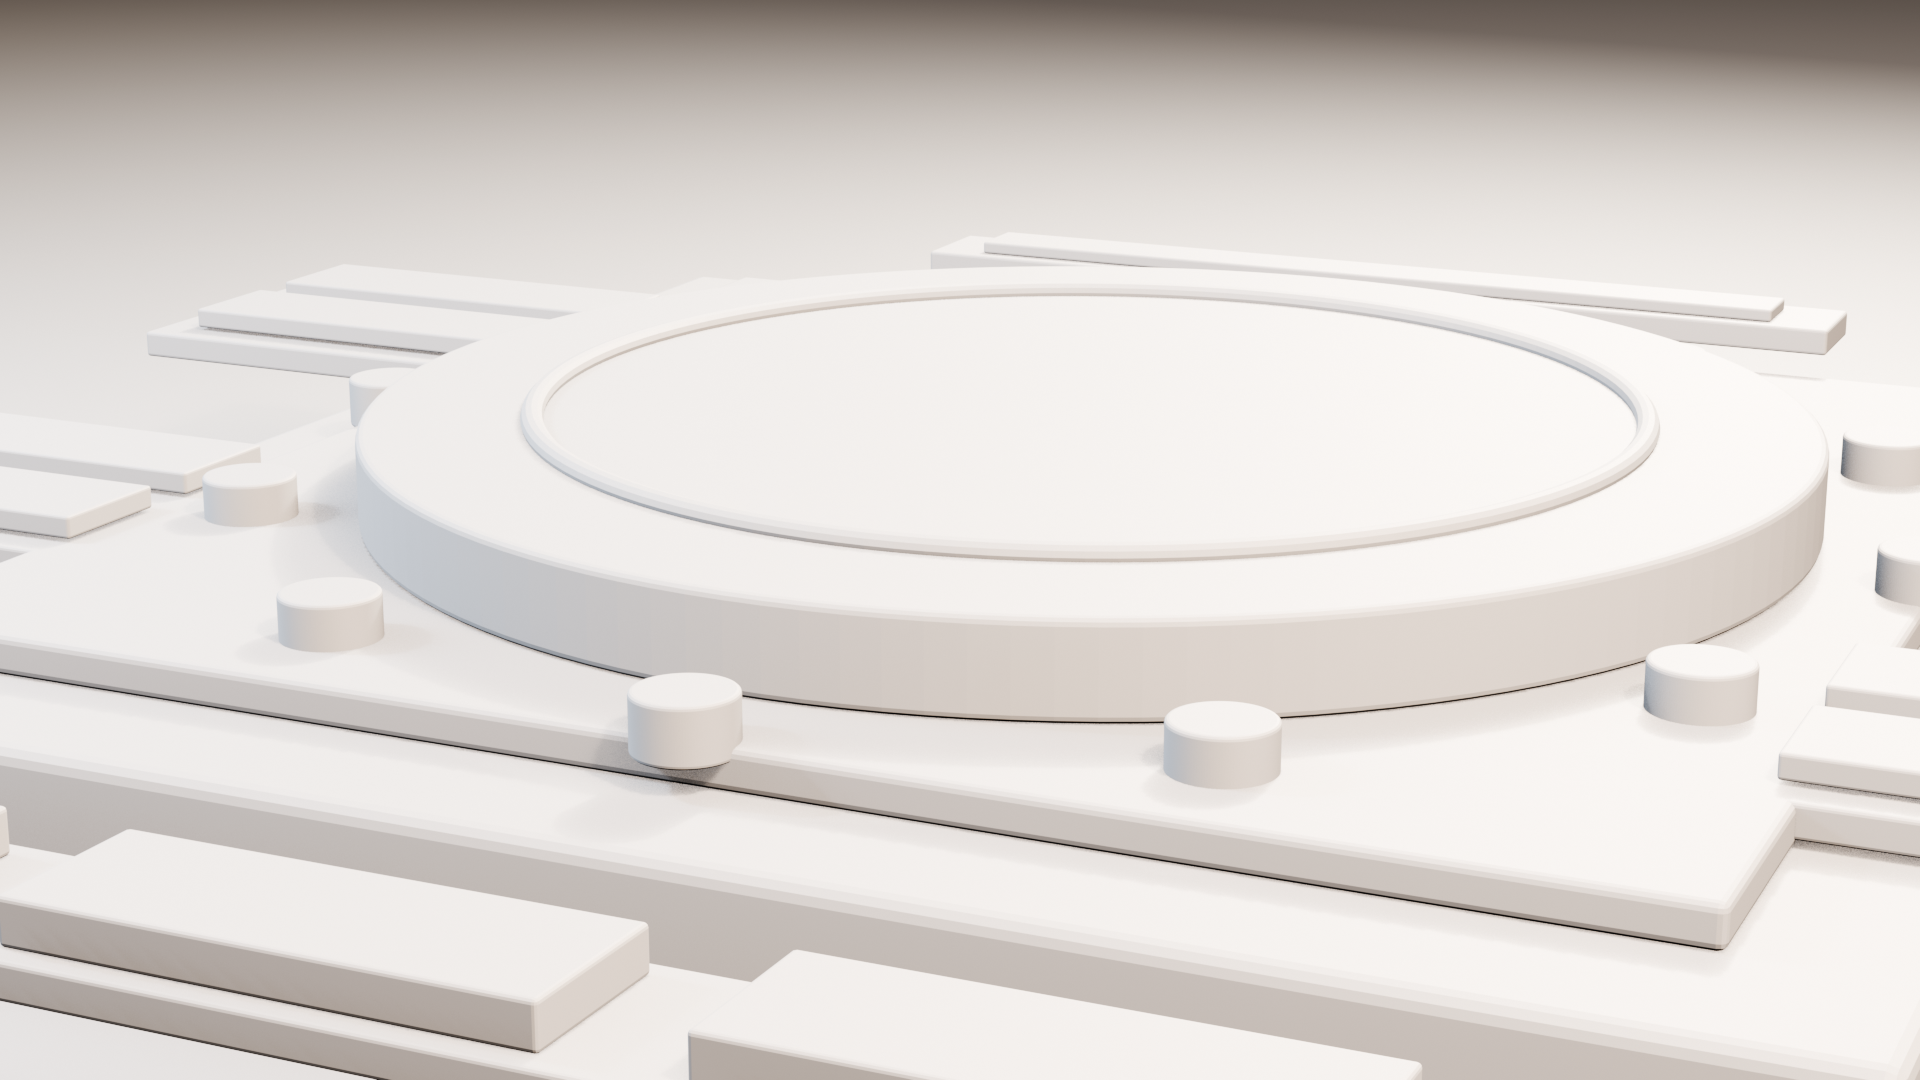
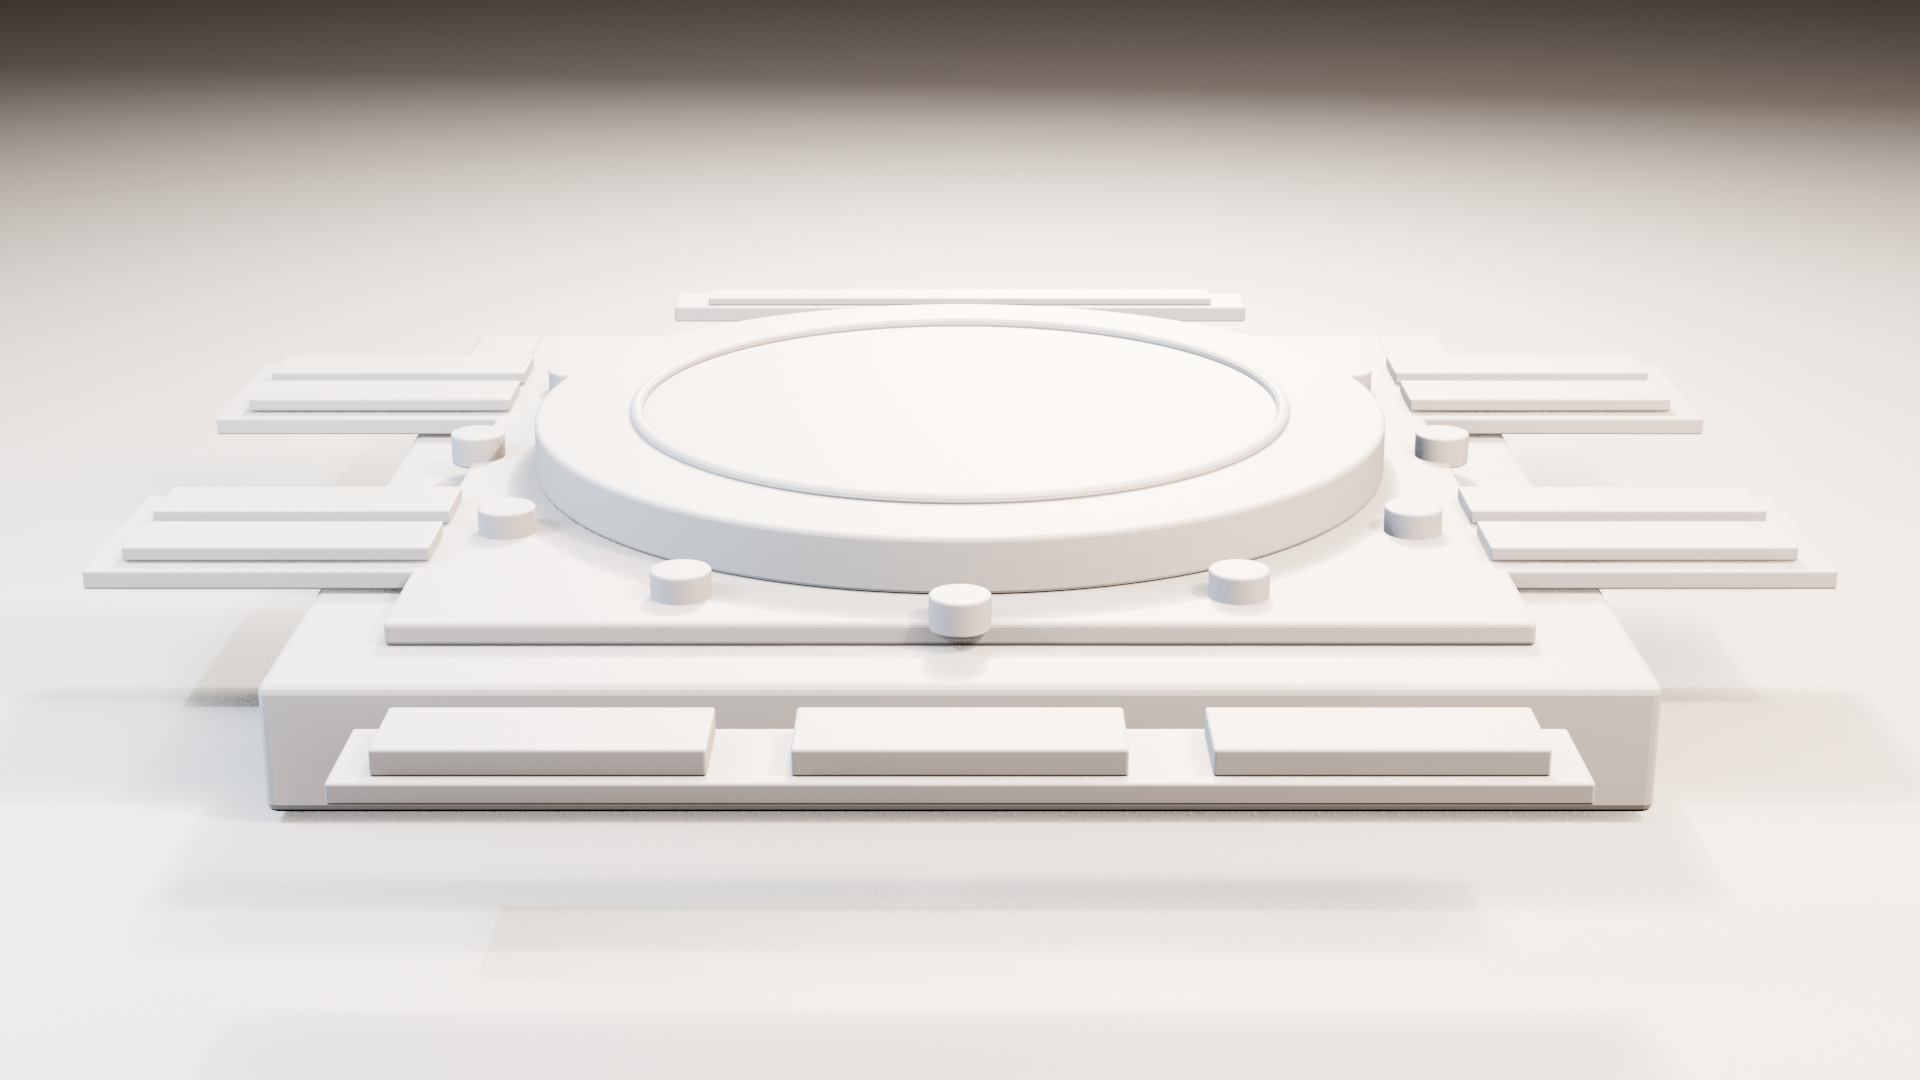
fix: widen graybox mechanism review

diff --git a/tools/blender/tests/test_review_scene.py b/tools/blender/tests/test_review_scene.py
@@ -3,10 +3,13 @@ import unittest
 from pathlib import Path
 
 import bpy
+from bpy_extras.object_utils import world_to_camera_view
+from mathutils import Vector
 
 sys.path.insert(0, str(Path(__file__).parents[1]))
 
 from build_graybox import build_graybox
+from poses import apply_pose
 from render_graybox_review import build_review_scene
 
 
@@ -104,6 +107,54 @@ class ReviewSceneTest(unittest.TestCase):
         self.assertTrue(
             all("node_id" not in bpy.data.objects[name] for name in CAMERA_NAMES | LIGHT_NAMES)
         )
+
+    def test_mechanism_camera_frames_the_bridge_side_lessons_and_center_plate(self):
+        build_review_scene()
+        apply_pose("generals", plate_offset=5, general_direction="reverse")
+        scene = bpy.context.scene
+        camera = bpy.data.objects["review/mechanism"]
+
+        projected_bounds = {}
+        for object_name in (
+            "transmission/bridge/body",
+            "lesson/third/body",
+            "lesson/second/body",
+            "plate/heaven",
+        ):
+            obj = bpy.data.objects[object_name]
+            coordinates = [
+                world_to_camera_view(scene, camera, obj.matrix_world @ Vector(corner))
+                for corner in obj.bound_box
+            ]
+            self.assertTrue(all(coordinate.z > 0.0 for coordinate in coordinates))
+            projected_bounds[object_name] = (
+                min(coordinate.x for coordinate in coordinates),
+                max(coordinate.x for coordinate in coordinates),
+                min(coordinate.y for coordinate in coordinates),
+                max(coordinate.y for coordinate in coordinates),
+            )
+
+        for object_name in (
+            "transmission/bridge/body",
+            "lesson/third/body",
+            "lesson/second/body",
+        ):
+            minimum_x, maximum_x, minimum_y, maximum_y = projected_bounds[object_name]
+            with self.subTest(object_name=object_name):
+                self.assertGreaterEqual(minimum_x, 0.04)
+                self.assertLessEqual(maximum_x, 0.96)
+                self.assertGreaterEqual(minimum_y, 0.05)
+                self.assertLessEqual(maximum_y, 0.95)
+
+        plate_minimum_x, plate_maximum_x, plate_minimum_y, plate_maximum_y = projected_bounds[
+            "plate/heaven"
+        ]
+        self.assertGreaterEqual(plate_minimum_x, 0.0)
+        self.assertLessEqual(plate_maximum_x, 1.0)
+        self.assertGreaterEqual(plate_minimum_y, 0.0)
+        self.assertLessEqual(plate_maximum_y, 1.0)
+        self.assertGreaterEqual(plate_maximum_x - plate_minimum_x, 0.25)
+        self.assertLessEqual(plate_maximum_x - plate_minimum_x, 0.70)
 
 
 if __name__ == "__main__":

diff --git a/tools/blender/render_graybox_review.py b/tools/blender/render_graybox_review.py
@@ -15,7 +15,7 @@ from poses import apply_pose
 CAMERAS = {
     "review/overall": ((0.78, -0.90, 0.68), (0.0, -0.02, 0.065), 58.0),
     "review/oblique": ((-0.76, -0.82, 0.55), (0.0, -0.03, 0.070), 58.0),
-    "review/mechanism": ((0.34, -0.82, 0.30), (0.0, -0.08, 0.070), 65.0),
+    "review/mechanism": ((0.0, -1.25, 0.44), (0.0, -0.10, 0.055), 54.0),
     "review/top": ((0.0, 0.0, 2.15), (0.0, -0.03, 0.055), 60.0),
 }
 LIGHTS = {

diff --git a/docs/asset-reviews/graybox/README.md b/docs/asset-reviews/graybox/README.md
@@ -17,7 +17,7 @@
 | --- | --- | --- |
 | `overall.png` | 左 `closed` / 右 `generals` | 闭合与完全展开的同图对照 |
 | `oblique.png` | `generals` | 四课抽屉、十二将与天地盘层级 |
-| `mechanism.png` | `generals` | 中央盘体、滑动件和机械间隙特写 |
+| `mechanism.png` | `generals` | 正面工程视角：三传桥架、左右课位滑轨与中央盘边缘间隙 |
 | `top.png` | `generals` | 四课、三传、十二将与中心盘的完整平面关系 |
 
 ## 阶段结论
@@ -25,7 +25,7 @@
 | 检查项 | 结论 | 观察 |
 | --- | --- | --- |
 | Silhouette | PASS | `closed` 状态的物理几何保持在方形底座包络内；分屏对照可清楚区分闭合与展开轮廓。 |
-| Mechanism clearance | PASS | `generals` 状态下四课抽屉、三传桥架和十二将升起件未见相互穿插；底座内部碰撞盒另由姿态测试覆盖。 |
+| Mechanism clearance | PASS | 正面工程视图同时显示三传桥架、左右课位滑轨和中央盘边缘，关键接缝均可辨且未见相互穿插；底座内部碰撞盒另由姿态测试覆盖。 |
 | Component hierarchy | PASS | 顶视图可区分中央天地盘、四组双层课位、三枚传位和环形十二将；斜视图补充确认垂直层级。 |
 | Inscription space | PASS | 天盘中央、历史固定环、四课读数面与三传模块均保留连续平面；审阅场景未嵌入动态课例文字。 |
 
